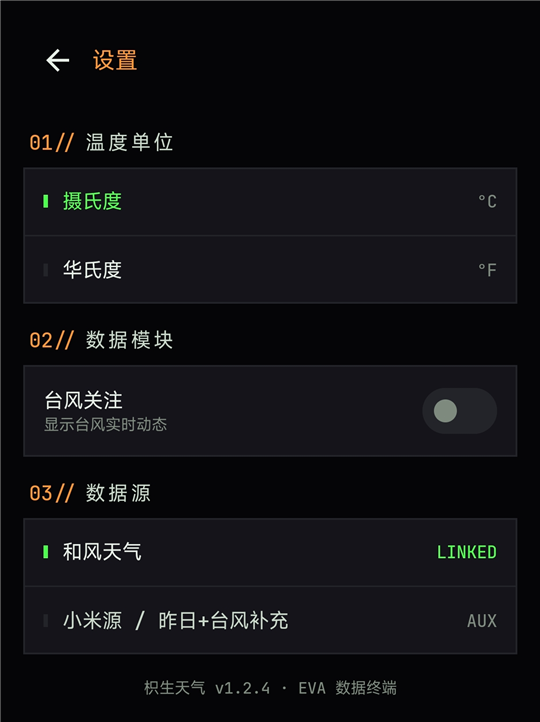
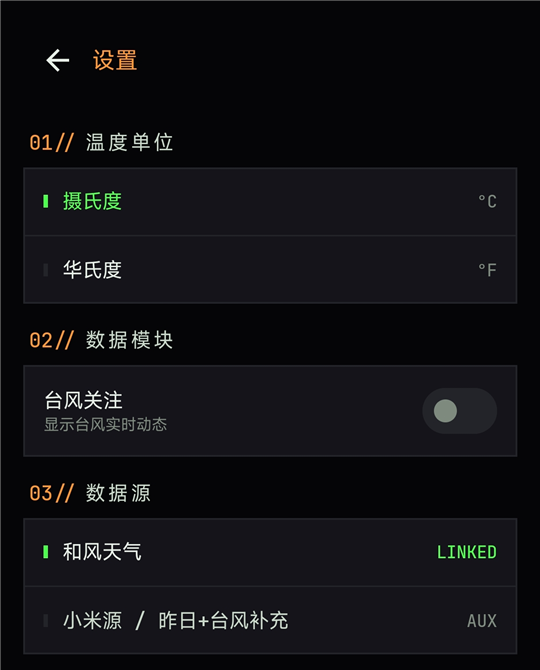
chore: rebrand to v0.0.1 Preview — purge 1.2.x traces from source, docs, templates, screenshots

diff --git a/app/src/main/kotlin/com/zhisheng/weather/data/WeatherRepository.kt b/app/src/main/kotlin/com/zhisheng/weather/data/WeatherRepository.kt
@@ -33,8 +33,8 @@ object WeatherRepository {
 
     // —— 和风天气主路径 ——
     // 每路请求带 1 次重试：手机网络下偶发超时/连接抖动若无重试，
-    // 对应区块会静默消失（v1.2.2 修复：平舆丢月相即 daily 单发失败所致）
-    // v1.2.3：透传 CancellationException（城市切换取消）；4xx 不重试（海外 minutely 400 等确定性失败）
+    // 对应区块会静默消失（v0.0.1 修复：平舆丢月相即 daily 单发失败所致）
+    // v0.0.1：透传 CancellationException（城市切换取消）；4xx 不重试（海外 minutely 400 等确定性失败）
     private suspend fun <T> qwRetry(times: Int = 2, block: suspend () -> T?): T? {
         repeat(times) { i ->
             try {
@@ -69,7 +69,7 @@ object WeatherRepository {
             val minutely = async { qwRetry { svc.minutely(QWeatherApi.lonLat(city)) } }
             val indices = async { qwRetry { svc.indices(QWeatherApi.lonLat(city), "1,2,3,9") } }
             // 小米源补：昨日复盘 + 台风 + 逐日扩展（按城市名反查小米 key，取距离最近命中，
-            // 防同名异地串台——v1.2.4 修复：金川区(金昌)显示四川金川县预警）
+            // 防同名异地串台——v0.0.1 修复：金川区(金昌)显示四川金川县预警）
             val supp = async {
                 try {
                     val key = nearestXiaomiKey(city.name, city.latitude, city.longitude)
@@ -100,7 +100,7 @@ object WeatherRepository {
             val ix = indices.await()
             val s = supp.await()
 
-            // v1.2.3：单路失败留痕，logcat 可查（此前区块静默消失无从定位）
+            // v0.0.1：单路失败留痕，logcat 可查（此前区块静默消失无从定位）
             val missing = buildList {
                 if (d == null) add("daily")
                 if (h == null) add("hourly")
@@ -264,7 +264,7 @@ object WeatherRepository {
         air.pollutants.firstOrNull { it.code == code }
             ?.concentration?.value?.let { if (it == it.toInt().toDouble()) it.toInt().toString() else it.toString() }
 
-    // 和风新版单位换算：优先用 API 返回的 unit 字段判定（v1.2.4：启发式会把大雾
+    // 和风新版单位换算：优先用 API 返回的 unit 字段判定（v0.0.1：启发式会把大雾
     // 能见度 500m 误显示成 500km），unit 缺失时才退回启发式
     private fun speedKmh(v: QwVal?): Double? = v?.value?.let {
         when (v.unit?.lowercase()) {
@@ -285,7 +285,7 @@ object WeatherRepository {
 
     // —— 小米源兜底路径（原有逻辑） ——
     private suspend fun fetchXiaomi(city: City): WeatherData = try {
-        // 兜底链路同样带重试：此前单次请求一抖就整屏红字，比主链路还脆弱（v1.2.4）
+        // 兜底链路同样带重试：此前单次请求一抖就整屏红字，比主链路还脆弱（v0.0.1）
         val result = qwRetry {
             XiaomiApi.instance.getWeather(
                 latitude = city.latitude,
@@ -326,14 +326,14 @@ object WeatherRepository {
     }
 
     // 小米 key 形如 "weathercn:xxx"/"accu:xxx"；和风搜索存下的是和风 id（纯数字），
-    // 直接拿去调小米接口会返回全空（v1.2.3 修复：和风整体失败时和风搜索的城市整屏空白）
+    // 直接拿去调小米接口会返回全空（v0.0.1 修复：和风整体失败时和风搜索的城市整屏空白）
     private suspend fun resolveXiaomiKey(city: City): String {
         if (city.locationKey.contains(":")) return city.locationKey
         return nearestXiaomiKey(city.name, city.latitude, city.longitude) ?: city.locationKey
     }
 
     // 按城市名反查小米 key：同名异地（金川区/金川县、朝阳…）必须取距离最近的命中，
-    // 且超过 150km 视为无匹配，宁可缺数据也不串城市（v1.2.4）
+    // 且超过 150km 视为无匹配，宁可缺数据也不串城市（v0.0.1）
     private const val XIAOMI_MATCH_MAX_KM = 150.0
 
     private suspend fun nearestXiaomiKey(name: String, lat: Double, lon: Double): String? = try {
@@ -464,7 +464,7 @@ object WeatherRepository {
         return buildList {
             val highs = r.forecastDaily?.temperature?.value
             val codes = r.forecastDaily?.weather?.value
-            // pubTime 解析失败退回当日 0 点，避免逐日日期全部掉回 1970（v1.2.4）
+            // pubTime 解析失败退回当日 0 点，避免逐日日期全部掉回 1970（v0.0.1）
             val start = parseTimeMillis(r.forecastDaily?.pubTime).takeIf { it != 0L }
                 ?: todayStartMillis()
             val n = minOf(highs?.size ?: 0, codes?.size ?: 0, 15)
@@ -496,7 +496,7 @@ object WeatherRepository {
                 condition = WeatherCondition.fromCode(cur.weather),
                 weatherText = WeatherCondition.fromCode(cur.weather).label,
                 humidity = cur.humidity?.value?.toDoubleOrNull(),
-                // 小米风速带 unit 字段：km/h 透传，m/s 换算（v1.2.4）
+                // 小米风速带 unit 字段：km/h 透传，m/s 换算（v0.0.1）
                 windSpeed = cur.wind?.speed?.let { w ->
                     w.value?.toDoubleOrNull()?.let { v -> if (w.unit == "m/s") v * 3.6 else v }
                 },

diff --git a/app/src/main/kotlin/com/zhisheng/weather/ui/home/HomeScreen.kt b/app/src/main/kotlin/com/zhisheng/weather/ui/home/HomeScreen.kt
@@ -292,7 +292,7 @@ private fun WeatherContent(
     )
     val nums = visible.runningFold(0) { acc, v -> if (v) acc + 1 else acc }.drop(1)
 
-    // 入场动画总开关：状态提升到 LazyColumn 之上，只驱动一次交错入场（v1.2.1 修复快滑闪卡）
+    // 入场动画总开关：状态提升到 LazyColumn 之上，只驱动一次交错入场（v0.0.1 修复快滑闪卡）
     var entered by remember { mutableStateOf(false) }
     LaunchedEffect(Unit) { entered = true }
 
@@ -347,7 +347,7 @@ private fun WeatherContent(
 @Composable
 private fun StatusLine(city: com.zhisheng.weather.model.City?, data: WeatherData) {
     val coord = city?.let {
-        // 负坐标按 S/W 显示，避免出现 "-33.90N" 这种矛盾写法（v1.2.4）
+        // 负坐标按 S/W 显示，避免出现 "-33.90N" 这种矛盾写法（v0.0.1）
         String.format(
             Locale.US, "%.2f%s %.2f%s",
             Math.abs(it.latitude), if (it.latitude >= 0) "N" else "S",
@@ -442,7 +442,7 @@ private fun HeroSection(cur: CurrentWeather, data: WeatherData, unit: String, mo
 @Composable
 private fun AnimatedTemp(celsius: Double?, unit: String) {
     if (celsius == null) {
-        // 无数据显示 "--"，而不是误导性的 "0"（v1.2.4）
+        // 无数据显示 "--"，而不是误导性的 "0"（v0.0.1）
         Text(
             text = "--",
             style = MaterialTheme.typography.displayLarge,
@@ -616,7 +616,7 @@ private fun HourlySection(hourly: List<HourlyWeather>, unit: String, modifier: M
     val minT = temps.minOrNull() ?: 0.0
     val maxT = temps.maxOrNull() ?: 1.0
     HudCard(modifier = modifier.fillMaxWidth()) {
-        // key=时间戳：数据刷新时按身份复用 item，不整列重绑（v1.2.4）
+        // key=时间戳：数据刷新时按身份复用 item，不整列重绑（v0.0.1）
         LazyRow(horizontalArrangement = Arrangement.spacedBy(0.dp)) {
             itemsIndexed(hourly, key = { _, h -> h.timeMillis }) { i, h ->
                 HourlyItem(h, hourly.getOrNull(i + 1), unit, minT, maxT, i == 0)
@@ -706,7 +706,7 @@ private fun PrecipCard(minutes: List<MinutePrecip>, summary: String?, modifier: 
                     )
                 }
                 // 现在标记线：按首末条实际时间定位（minutely 自当前时刻起约 +120min，
-                // 原写死 20% 位置+"-60min"标签与实际语义不符，v1.2.4）
+                // 原写死 20% 位置+"-60min"标签与实际语义不符，v0.0.1）
                 val nowMillis = System.currentTimeMillis()
                 val t0 = minutes.first().timeMillis
                 val t1 = minutes.last().timeMillis
@@ -1299,7 +1299,7 @@ private fun CityDrawer(
                     Box(Modifier.size(width = 3.dp, height = 14.dp).background(ZhishengMint))
                     Spacer(Modifier.width(8.dp))
                 }
-                // 城市名 + 归属地：同名城市（金川区@金昌 vs 金川县@阿坝）必须可区分（v1.2.4）
+                // 城市名 + 归属地：同名城市（金川区@金昌 vs 金川县@阿坝）必须可区分（v0.0.1）
                 Column(Modifier.weight(1f)) {
                     Text(
                         city.name,

diff --git a/app/src/main/kotlin/com/zhisheng/weather/data/OpenMeteoApi.kt b/app/src/main/kotlin/com/zhisheng/weather/data/OpenMeteoApi.kt
@@ -33,7 +33,7 @@ object OpenMeteoApi {
     }
 
     // 逐时兜底（全球覆盖、免 key）：和风 hourly 单路失败/不支持时（海外城市 4xx 等）
-    // 逐时预报区曾整块空白（v1.2.5 修复），与逐日补齐同一套路
+    // 逐时预报区曾整块空白（v0.0.1 修复），与逐日补齐同一套路
     suspend fun fetchHourly(lat: Double, lon: Double): OpenMeteoHourlyResponse? = withContext(Dispatchers.IO) {
         try {
             val url = "https://api.open-meteo.com/v1/forecast?latitude=$lat&longitude=$lon" +
@@ -50,7 +50,7 @@ object OpenMeteoApi {
     }
 
     // 16 天逐日（全球覆盖、免 key）：和风逐日上限 10 天、小米海外仅约 5 天，
-    // 用此接口把逐日补齐到 15 天（v1.2.3 东京丢 15 天预报的修复）。timezone=auto 按城市本地日界
+    // 用此接口把逐日补齐到 15 天（v0.0.1 东京丢 15 天预报的修复）。timezone=auto 按城市本地日界
     suspend fun fetchDaily(lat: Double, lon: Double): OpenMeteoDaily? = withContext(Dispatchers.IO) {
         try {
             val url = "https://api.open-meteo.com/v1/forecast?latitude=$lat&longitude=$lon" +

diff --git a/app/src/main/kotlin/com/zhisheng/weather/ui/SearchScreen.kt b/app/src/main/kotlin/com/zhisheng/weather/ui/SearchScreen.kt
@@ -57,7 +57,7 @@ fun SearchScreen(
     var query by remember { mutableStateOf("") }
     var results by remember { mutableStateOf<List<City>>(emptyList()) }
     var searching by remember { mutableStateOf(false) }
-    // rememberCoroutineScope：离开搜索页自动取消挂起的搜索（v1.2.4）
+    // rememberCoroutineScope：离开搜索页自动取消挂起的搜索（v0.0.1）
     val scope = rememberCoroutineScope()
     var debounceJob by remember { mutableStateOf<Job?>(null) }
 
@@ -77,7 +77,7 @@ fun SearchScreen(
                     debounceJob = scope.launch {
                         delay(350)
                         searching = true
-                        // 透传 CancellationException：被新输入取消的旧搜索不再写空结果覆盖新结果（v1.2.4）
+                        // 透传 CancellationException：被新输入取消的旧搜索不再写空结果覆盖新结果（v0.0.1）
                         results = try {
                             CityRepository.search(q)
                         } catch (ce: CancellationException) {

diff --git a/app/src/main/kotlin/com/zhisheng/weather/ui/WeatherViewModel.kt b/app/src/main/kotlin/com/zhisheng/weather/ui/WeatherViewModel.kt
@@ -35,7 +35,7 @@ class WeatherViewModel(application: Application) : AndroidViewModel(application)
     private var lastFetchAt: Long = 0L
 
     // 同一时间只保留一次抓取：换城市立即取消旧任务，
-    // 避免新旧城市结果乱序覆盖（v1.2.3：切城市偶发数据错乱的修复）
+    // 避免新旧城市结果乱序覆盖（v0.0.1：切城市偶发数据错乱的修复）
     private var fetchJob: kotlinx.coroutines.Job? = null
 
     val cities: StateFlow<List<City>> = CityRepository.cities
@@ -72,7 +72,7 @@ class WeatherViewModel(application: Application) : AndroidViewModel(application)
     }
 
     // force=false 用于 ON_RESUME 自动刷新：同城 10 分钟内不重复拉，
-    // 避免与启动时 selectedCity 首发射叠加成双份请求（v1.2.4）
+    // 避免与启动时 selectedCity 首发射叠加成双份请求（v0.0.1）
     fun refresh(city: City? = null, force: Boolean = true) {
         val target = city ?: selectedCity.value ?: return
         val now = System.currentTimeMillis()

diff --git a/app/src/main/kotlin/com/zhisheng/weather/data/CityRepository.kt b/app/src/main/kotlin/com/zhisheng/weather/data/CityRepository.kt
@@ -51,7 +51,7 @@ object CityRepository {
     suspend fun search(query: String): List<City> {
         if (query.isBlank()) return emptyList()
         if (QWeatherApi.enabled) {
-            // 透传 CancellationException：被取消的搜索不再继续跑小米兜底（v1.2.4）
+            // 透传 CancellationException：被取消的搜索不再继续跑小米兜底（v0.0.1）
             val qw = try {
                 QWeatherApi.service.cityLookup(query)
             } catch (ce: kotlinx.coroutines.CancellationException) {

diff --git a/app/src/main/kotlin/com/zhisheng/weather/ui/SettingsScreen.kt b/app/src/main/kotlin/com/zhisheng/weather/ui/SettingsScreen.kt
@@ -45,7 +45,7 @@ import kotlinx.coroutines.launch
 
 @Composable
 fun SettingsScreen(onBack: () -> Unit) {
-    // rememberCoroutineScope：原写法每次重组新建 scope 且永不取消（v1.2.4）
+    // rememberCoroutineScope：原写法每次重组新建 scope 且永不取消（v0.0.1）
     val scope = rememberCoroutineScope()
     val tempUnit by SettingsRepository.tempUnit.collectAsState(initial = "c")
     val showTyphoon by SettingsRepository.showTyphoon.collectAsState(initial = true)

diff --git a/app/src/main/kotlin/com/zhisheng/weather/data/QWeatherApi.kt b/app/src/main/kotlin/com/zhisheng/weather/data/QWeatherApi.kt
@@ -87,7 +87,7 @@ object QWeatherApi {
             req
         }
         var resp = chain.proceed(first)
-        // 401 = token 被拒（时钟漂移/凭据作废）：作废缓存重签一次再试（v1.2.4）
+        // 401 = token 被拒（时钟漂移/凭据作废）：作废缓存重签一次再试（v0.0.1）
         if (resp.code == 401 && token != null) {
             resp.close()
             QwAuth.invalidate()

diff --git a/app/src/main/kotlin/com/zhisheng/weather/data/QwAuth.kt b/app/src/main/kotlin/com/zhisheng/weather/data/QwAuth.kt
@@ -13,7 +13,7 @@ object QwAuth {
     private var cached: String? = null
     private var cachedExp: Long = 0
 
-    // 7 路请求在 OkHttp 线程池并发取 token：加锁保证可见性 + 只签一次（v1.2.4）
+    // 7 路请求在 OkHttp 线程池并发取 token：加锁保证可见性 + 只签一次（v0.0.1）
     @Synchronized
     fun token(): String? {
         val now = System.currentTimeMillis() / 1000

diff --git a/README.md b/README.md
@@ -19,7 +19,7 @@
 > 满血版（和风主源：分钟级降水图 / 穿衣感冒指数等）需源码构建并自备凭据。
 
 <p align="center">
-  <img alt="version" src="https://img.shields.io/badge/version-1.2.5-FF6F1E?style=flat-square"/>
+  <img alt="version" src="https://img.shields.io/badge/version-0.0.1_Preview-FF6F1E?style=flat-square"/>
   <img alt="license" src="https://img.shields.io/badge/license-MIT-3BFF8C?style=flat-square"/>
   <img alt="release" src="https://img.shields.io/github/v/release/ZhishengZZ/ZhishengWeather?style=flat-square&color=FF6F1E"/>
   <img alt="build" src="https://img.shields.io/github/actions/workflow/status/ZhishengZZ/ZhishengWeather/.github/workflows/build.yml?style=flat-square&label=BUILD"/>
@@ -157,24 +157,11 @@ keystore.key_password=<...>
 
 ## 09// 版本记录 CHANGELOG
 
-**v1.2.5**（当前）
+**v0.0.1 Preview**（当前）
 
-- 零配置体验：首装种子默认城市北京，装好即有天气（无凭据自动降级小米源 + Open-Meteo）
-- 新增 `-PpublicBuild` 公开版构建链路：凭据强制为空 + 随库公开证书 `keystore/public.jks`
-- Release 发布公开版 APK，零配置安装即用
-
-**v1.2.4**
-
-- 同名城市串台修复：小米按名反查改为取最近距离命中，超 150km 视为无匹配；城市抽屉显示省份归属
-- 全新图标系统：15 枚单色青双色调终端风图标，替换旧矢量图
-- 逐时预报引入 Open-Meteo 兜底，修复部分城市逐时缺失
-- 一批健壮性修复：单位换算改读接口 unit 字段、搜索竞态、JWT 并发取 token、失败重试
-
-**v1.2.3**
-
-- 15 天逐日补齐：Open-Meteo 全球兜底，东京这类海外城市也凑满
-- 月相本地计算兜底（Meeus 天文算法），不再依赖某个源是否给字段
-- 切城市立即取消旧请求，不再串数据
+- 首个公开预览：磷光终端 UI · 15 枚 AI 生成图标 · 三源数据融合（和风 / 小米 / Open-Meteo）
+- 零配置体验：首装种子默认城市，无凭据自动降级公共源
+- `-PpublicBuild` 公开版构建链路 + 随库公开证书，Release 附公开版 APK
 
 更早的改动见 commit 历史。
 

diff --git a/SECURITY.md b/SECURITY.md
@@ -4,8 +4,8 @@
 
 | 版本 | 安全支持 |
 |:--|:--|
-| 1.2.x | ✅ |
-| < 1.2 | ❌ |
+| 0.0.x Preview | ✅ |
+| < 0.0.1 | ❌ |
 
 ## 02// 漏洞上报 REPORTING A VULNERABILITY
 
